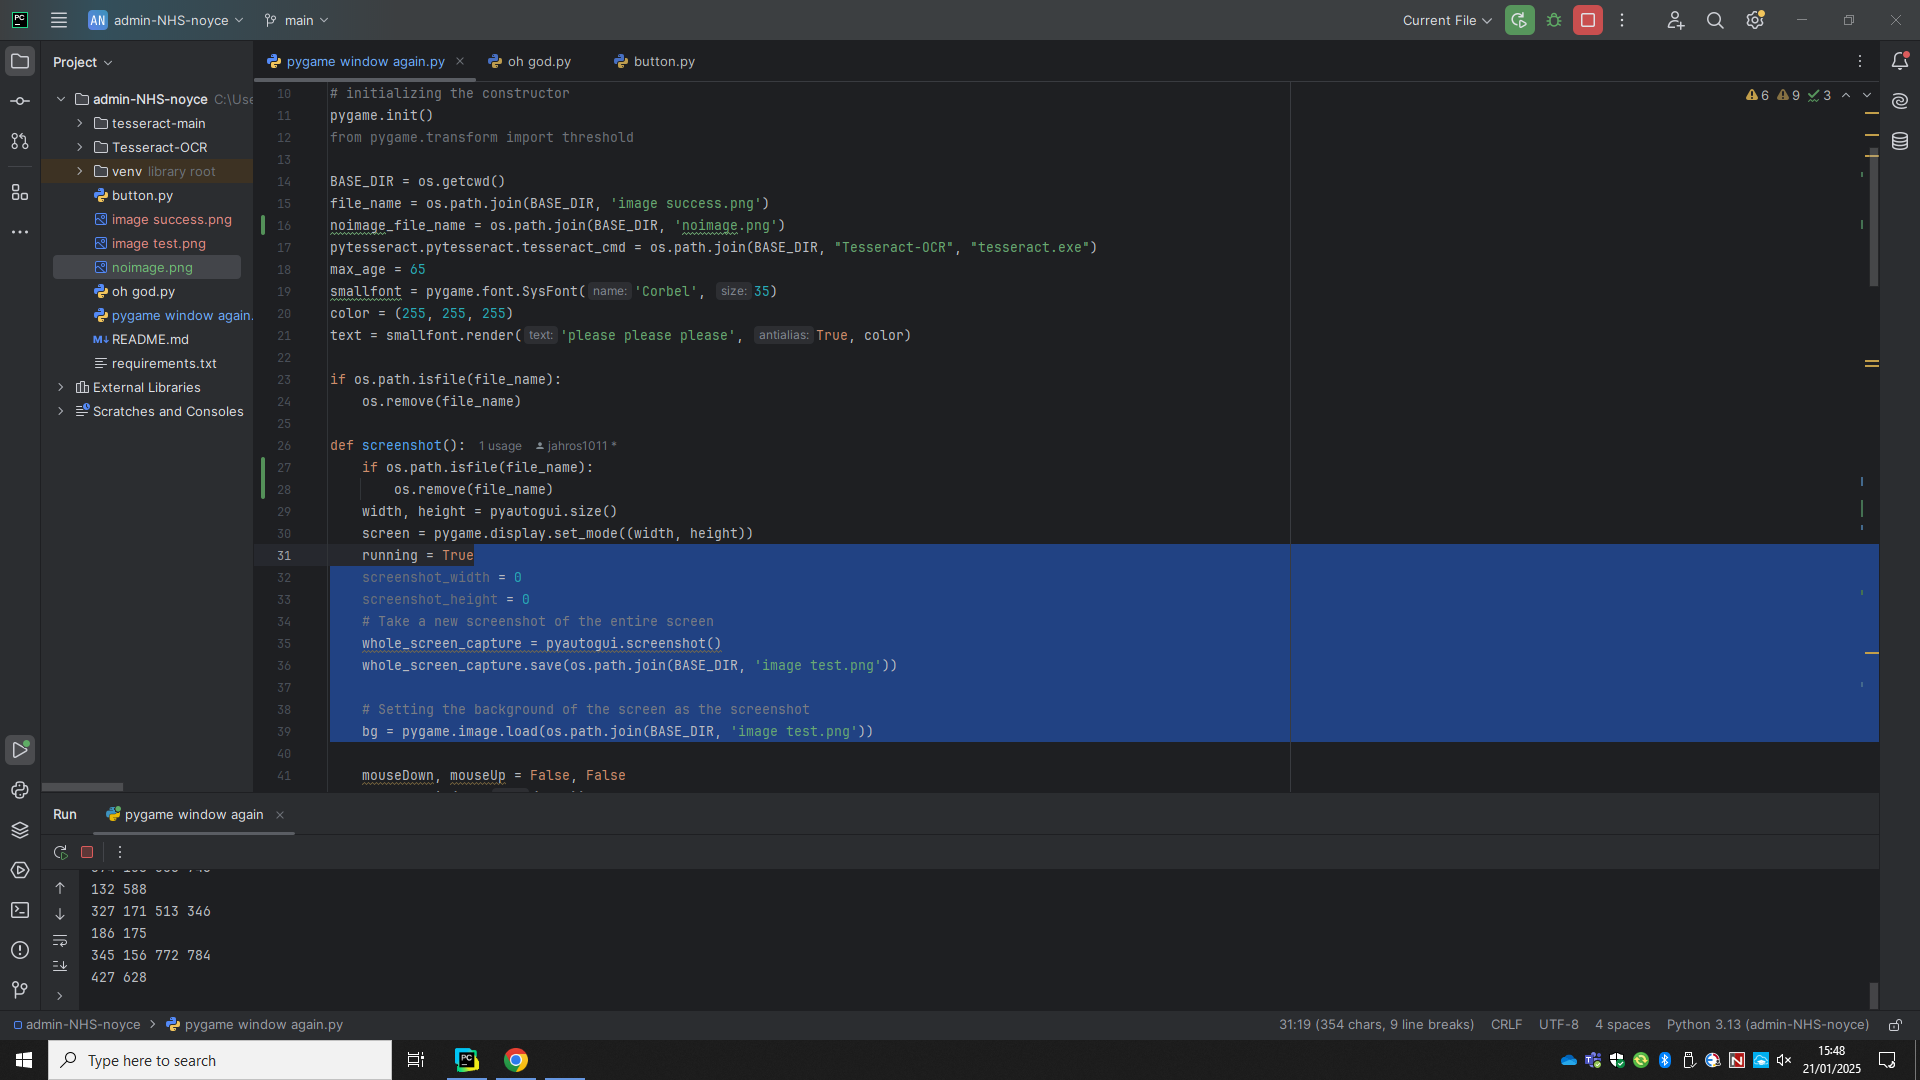
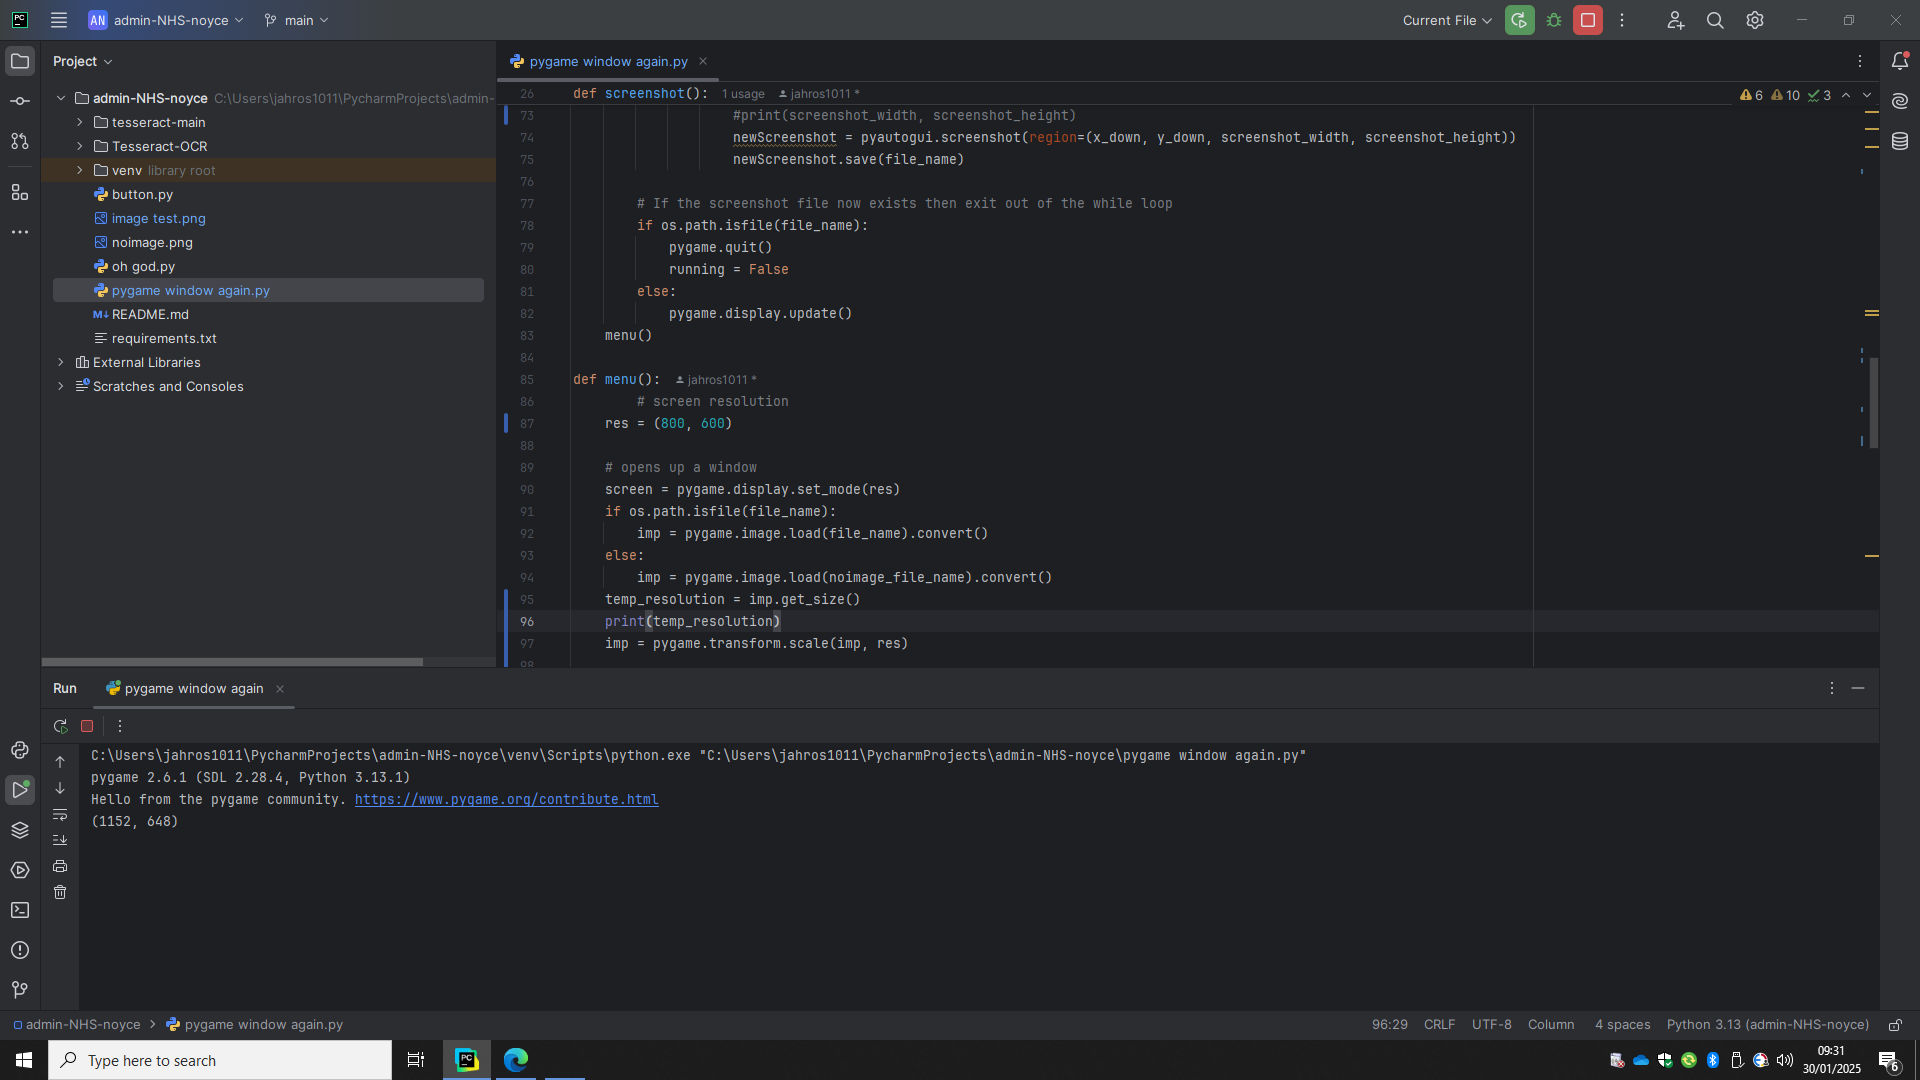
pulling image resolution

diff --git a/pygame window again.py b/pygame window again.py
@@ -16,7 +16,7 @@ file_name = os.path.join(BASE_DIR, 'image success.png')
 noimage_file_name = os.path.join(BASE_DIR, 'noimage.png')
 pytesseract.pytesseract.tesseract_cmd = os.path.join(BASE_DIR, "Tesseract-OCR", "tesseract.exe")
 max_age = 65
-smallfont = pygame.font.SysFont('Corbel', 35)
+smallfont = pygame.font.SysFont('comic sans', 35)
 color = (255, 255, 255)
 text = smallfont.render('please please please', True, color)
 
@@ -67,10 +67,10 @@ def screenshot():
                 x_up, y_up = pygame.mouse.get_pos()
                 mouseUp = True
                 if mouseDown and mouseUp:
-                    print(x_down, y_down, x_up, y_up)
+                    #print(x_down, y_down, x_up, y_up)
                     screenshot_width = x_up - x_down
                     screenshot_height = y_up - y_down
-                    print(screenshot_width, screenshot_height)
+                    #print(screenshot_width, screenshot_height)
                     newScreenshot = pyautogui.screenshot(region=(x_down, y_down, screenshot_width, screenshot_height))
                     newScreenshot.save(file_name)
 
@@ -84,7 +84,7 @@ def screenshot():
 
 def menu():
         # screen resolution
-    res = (1000, 650)
+    res = (800, 600)
 
     # opens up a window
     screen = pygame.display.set_mode(res)
@@ -92,9 +92,12 @@ def menu():
         imp = pygame.image.load(file_name).convert()
     else:
         imp = pygame.image.load(noimage_file_name).convert()
-    imp = pygame.transform.scale(imp, (1000, 650))
+    temp_resolution = imp.get_size()
+    print(temp_resolution)
 
-# white color
+    imp = pygame.transform.scale(imp, res)
+
+
 
     # light shade of the button
     color_light = (170, 170, 170)
